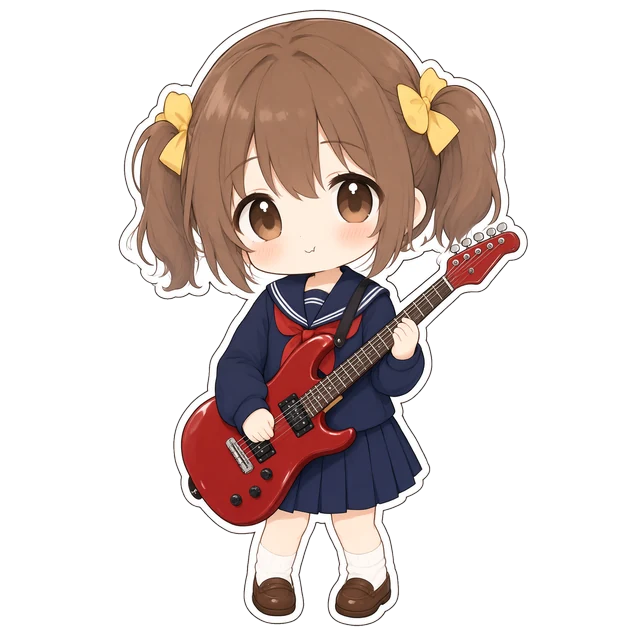
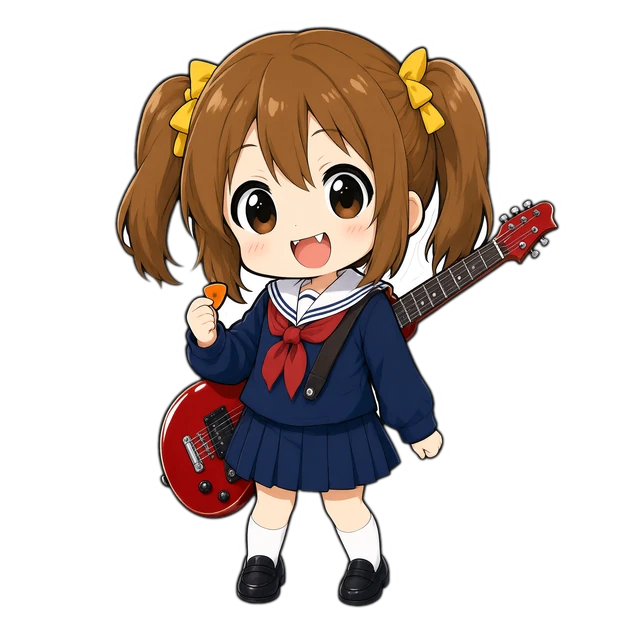
v0.7.2 看板娘迭代：①新增「显示看板娘」开关（settings.mascotEnabled，我的页外观卡内）；②鲸鱼女仆看板娘换 deep-whale 仓库现成 Q 版 companion（透明 RGBA 62KB，同源风格统一）；③平泽唯看板娘重制——AI 生成两候选按视觉评分选 Q 版厚涂贴纸风（9.8 分，茶色双马尾黄发卡红吉他张嘴傻笑），官方动画风候选留档备选；回归 6 组全过＋构建通过

diff --git a/app/src/views/ProfileView.vue b/app/src/views/ProfileView.vue
@@ -123,6 +123,20 @@ function onPickRestoreFile(e) {
           <span class="knob"></span>
         </button>
       </div>
+      <div class="switch-row" style="margin-top: 12px">
+        <div>
+          <div class="small" style="font-weight: 600">显示看板娘</div>
+          <div class="dim small">右下角常驻小角色，点她说话（仅主题配置了看板娘时）</div>
+        </div>
+        <button
+          class="switch"
+          :class="{ on: settings.mascotEnabled }"
+          :aria-label="settings.mascotEnabled ? '隐藏看板娘' : '显示看板娘'"
+          @click="settings.mascotEnabled = !settings.mascotEnabled"
+        >
+          <span class="knob"></span>
+        </button>
+      </div>
     </div>
     <div class="card">
       <div class="switch-row">

diff --git a/app/src/stores/settings.js b/app/src/stores/settings.js
@@ -9,6 +9,7 @@ export const useSettingsStore = defineStore('settings', {
     { key: 'display-mode', paths: ['displayMode'] },
     { key: 'theme', paths: ['themeId'] },
     { key: 'glass', paths: ['glass'] },
+    { key: 'mascot', paths: ['mascotEnabled'] },
   ],
   state: () => ({
     reminders: load('reminders', { enabled: false, time: '20:00' }),
@@ -22,5 +23,7 @@ export const useSettingsStore = defineStore('settings', {
     themeId: load('theme', 'classic'),
     // 透明毛玻璃（v0.7.1）：开启后卡片/顶栏半透明 + 背景模糊，背景插画更透
     glass: load('glass', false),
+    // 看板娘开关（v0.7.2）：false 时主题配置了看板娘也不显示
+    mascotEnabled: load('mascot', true),
   }),
 })

diff --git a/app/src/components/Mascot.vue b/app/src/components/Mascot.vue
@@ -8,7 +8,8 @@ import { THEMES } from '../data/themes.js'
 const settings = useSettingsStore()
 
 const theme = computed(() => THEMES.find((t) => t.id === settings.themeId))
-const visible = computed(() => Boolean(theme.value?.mascot))
+// 开关（v0.7.2）：「我的 → 外观主题 → 显示看板娘」；关掉后主题配置了看板娘也不显示
+const visible = computed(() => settings.mascotEnabled && Boolean(theme.value?.mascot))
 
 const LINES = [
   '今天也要加油练琴哦～',

diff --git a/HANDOFF.md b/HANDOFF.md
@@ -1,6 +1,6 @@
 # HANDOFF 交接文档
 
-> 给一个完全没有上下文的新对话看。工作目录：`F:\电吉他学习`（Windows 10，Git Bash）。项目名：**练琴搭子 · PickBuddy**。当前版本 **v0.7.1**。
+> 给一个完全没有上下文的新对话看。工作目录：`F:\电吉他学习`（Windows 10，Git Bash）。项目名：**练琴搭子 · PickBuddy**。当前版本 **v0.7.2**。
 
 ## 1. 我们在做什么任务
 
@@ -67,17 +67,18 @@
 - **设备建议修正（v0.6.3，用户实物反馈两个真错误）**：①**通道双脚钉**——CHANNEL（CLEAN/DRIVE）+ DRIVE MODE（RHYTHM/LEAD）两步讲全，`channelMap` 数据驱动：步骤拆两步、速览芯片显示「DRIVE → RHYTHM」/「CLEAN」、面板两个脚钉联动高亮；②**箱模名按实物 14 种更正**（65 Black/J800/DualRect/5153 系列，OD=过载推子版）+ `modelNotes` 中文对照 + 入门页 14 种对照表；模板映射：清音→65 Black Nor、轻过载→65 Black Nor OD、失真节奏→J800 Lo、金属→DualRect Red、主音→J800 Hi OD。回归：toneGuide 41→46 项（+channelMap/14 种名单/虚构名禁止校验）、面板渲染 11→12 项，均过；构建通过。
 - **设备建议补全（v0.6.4，用户反馈）**：①**琴音量旋钮（VOLUME）补全**——之前只建议了音色旋钮（TONE）；GRX40 两个旋钮现在都给建议：音量进 keyParams（速览第 2 芯片、步骤第 2 步「琴：音量旋钮拧到…」、面板图上音量旋钮红圈高亮），音色留在「可先不动」；6 套套路音量参考：清音 7~8 / 轻过载 8~9 / 失真节奏 8~9 / 金属 9~10 / 主音 8~9；②**箱模名大小写规范化**——用户输入用小写是打字方便，实物为标准大小写（65 Black Nor、J800 Lo、DualRect Red、5153 EL34/6L6、OD 大写），全部按标准写法。回归：toneGuide 46 项（基准重写含音量）、面板渲染 12→13 项（+音量旋钮高亮断言），全过；构建通过。**用户确认本轮结束，等验收。**
 - **外观主题系统（v0.7.0，用户要求"外观有更多样式"：参考 DSH 社区鲸鱼娘主题，指定平泽唯「呆唯风」）**：①`data/themes.js` 主题清单（id/名称/desc/色板 swatch/背景图/看板娘），settings 加 `themeId`（persist key `theme`），App.vue watch 写 `html[data-theme]`；②style.css 增加语义变量（--accent-soft/--accent-soft-2/--ok-soft/--ok-card/--warn-soft/--warn-border/--warn-text/--bar/--heat-1/--heat-2），20+ 视图硬编码色全部收敛，ChordChart/FretboardMap 红点改 CSS class；③首套主题「呆唯 · 轻音海洋」（`[data-theme='yui']`）：奶油暖粉+珊瑚粉+圆角 10px，body 背景图 `--bg-image`（遮罩 `body::before`，浓度变量 `--bg-veil` 默认 0.86），看板娘 `Mascot.vue` 右下角常驻（点她说话）；④「我的」页「外观主题」卡（THEMES 驱动，色板圆点+即时切换）；⑤素材在 `app/public/theme/`（**素材为网上收集的平泽唯形象图 + AI 生成 Q 版角色，个人学习用途、不公开传播；若未来公开分发需换授权素材**）；⑥顺手修 ProfileView「5 套→6 套」、DevicesView「od→OD」。回归 6 组全过 + 构建通过。
-- **主题迭代（v0.7.1，用户反馈三连）**：①**看板娘更萌**——yui 主题看板娘换成 **AI 生成 Q 版 chibi 平泽唯**（`spike/cutout.py` 抠白底→透明+羽化，WebP 压缩 49KB）；②**透明毛玻璃模式**——settings 加 `glass`（persist key `glass`），App.vue 切 `html.glass` class，style.css 里 `html.glass` 覆盖 --bg-card/--bg-input/--border + `.card/.topbar/.subhead/.tabbar/input/select/textarea/.msg-bubble` backdrop blur(14px)，body::before opacity 0.66；「我的 → 外观主题」卡内开关；**html.glass 选择器优先级（0,1,1）高于 [data-theme]（0,1,0），放 CSS 后面即覆盖**；③**第三主题「鲸鱼女仆 · 深海茶会」（`[data-theme='maid']`）**——DSH 社区 dsh-maid-whale-webUI 设计语言：柔雾蓝 #4a86e8、水彩鲸鱼云团背景（素材取自该仓库 BSD-3-Clause）、圆角 12px、AI 生成 Q 版蓝发女仆抱小鲸鱼看板娘（WebP 83KB）；--bg-veil 0.9。回归 6 组全过 + 构建通过。**等用户验收。**
+- **主题迭代（v0.7.1，用户反馈三连）**：①**看板娘更萌**——yui 主题看板娘换成 **AI 生成 Q 版 chibi 平泽唯**（`spike/cutout.py` 抠白底→透明+羽化，WebP 压缩 49KB）；②**透明毛玻璃模式**——settings 加 `glass`（persist key `glass`），App.vue 切 `html.glass` class，style.css 里 `html.glass` 覆盖 --bg-card/--bg-input/--border + `.card/.topbar/.subhead/.tabbar/input/select/textarea/.msg-bubble` backdrop blur(14px)，body::before opacity 0.66；「我的 → 外观主题」卡内开关；**html.glass 选择器优先级（0,1,1）高于 [data-theme]（0,1,0），放 CSS 后面即覆盖**；③**第三主题「鲸鱼女仆 · 深海茶会」（`[data-theme='maid']`）**——DSH 社区 dsh-maid-whale-webUI 设计语言：柔雾蓝 #4a86e8、水彩鲸鱼云团背景（素材取自该仓库 BSD-3-Clause）、圆角 12px、AI 生成 Q 版蓝发女仆抱小鲸鱼看板娘（WebP 83KB）；--bg-veil 0.9。回归 6 组全过 + 构建通过。
+- **看板娘迭代（v0.7.2，用户反馈：加启用开关 / 鲸鱼女仆用现成 / 唯的风格不行）**：①settings 加 `mascotEnabled`（persist key `mascot`，默认开）+「我的 → 外观主题」加「显示看板娘」开关，Mascot.vue 的 visible 判断；②**maid 看板娘换现成**——deep-whale-day-night-theme 仓库自带 Q 版透明 companion（day-companion-v1.webp 420×434 RGBA 62KB），与 maid 主题同源风格统一；③**yui 看板娘重制**——AI 生成 2 候选（官方动画风/Q 版厚涂贴纸风），视觉模型评分选 Q 版厚涂（9.8 分：茶色双马尾+黄发卡+深蓝水手服红领巾+红吉他+拨片、张嘴傻笑露虎牙），抠图转 WebP 59KB；官方动画风候选留 `gui-test-screenshots/review-20260819/yui-candidates/` 备选（用户不满意可换）。回归 6 组全过 + 构建通过。**等用户验收。**
 - 全程约 52 个提交，git 历史即详细变更记录；需求文档修订记录完整到 v0.6.4；README/验收指南/交接文档全同步。
 
 ## 4. 当前卡在哪
 
-**v0.7.1（主题迭代：Q 版看板娘 + 毛玻璃 + 鲸鱼女仆主题）已推送，等用户验收**。验收重点：
+**v0.7.2（看板娘迭代：启用开关 + 现成鲸鱼娘 + 重制 Q 版唯）已推送，等用户验收**。验收重点：
 
-1. **「我的 → 外观主题」**：现在有 **3 套主题**（经典瑞士军刀 / 呆唯·轻音海洋 / 鲸鱼女仆·深海茶会），点一下即时切换；下方新增**「透明毛玻璃」开关**——开启后卡片/面板半透明 + 模糊，背景插画更透（三套主题通用）。
-2. **看板娘**：呆唯主题是 **Q 版 chibi 平泽唯**（茶色双马尾+黄发卡+红吉他）；鲸鱼女仆主题是 **Q 版蓝发女仆抱小鲸鱼**。点她们说话。
+1. **「我的 → 外观主题」**：3 套主题 + 「透明毛玻璃」+ 新增「**显示看板娘**」开关（关闭后看板娘消失）。
+2. **看板娘**：呆唯主题 = 新 Q 版厚涂唯（茶色双马尾+黄发卡+红吉他，张嘴傻笑）；鲸鱼女仆主题 = deep-whale 仓库现成 Q 版人鱼女仆（蓝发女仆装+鱼尾+持书）。若唯的形象还不满意，备选官方动画风候选在 `gui-test-screenshots/review-20260819/yui-candidates/yui-candidate-2.png`，说一声就换。
 3. **手机端**：背景插画被遮罩压暗不影响阅读；看板娘悬浮在底部导航上方不遮挡。
-4. **数据无损**：主题/毛玻璃选择存 localStorage，其余数据不受影响；切换后刷新两三次避开 SW 旧缓存。
+4. **数据无损**：主题/毛玻璃/看板娘开关都存 localStorage，其余数据不受影响；切换后刷新两三次避开 SW 旧缓存。
 5. **v0.4.2/v0.6.x 遗留的待用户反馈**（功能层面，与本次无关）：
 1. **曲谱准确性（重点）**：19 首曲谱中多数标注了来源与置信度；单源/自动检测的（影色舞等）标注「请对照原曲校准」。用户弹到不对的，按他听出来的改数据（人工纠错永远优先）。
 2. **新歌 BPM/调性待校准**：22 首新歌的 BPM/调性多为引擎分析值（`dataFrom` 标「待人工校准」）；用户弹到速度不对的报过来改。已知悬案：天使にふれたよ!（社区谱 100~117 疑似半速）、青春コンプレックス（社区谱 155 vs 分析 185）、ソラノムジカ（分析 129 vs 半速记谱 98）。

diff --git a/需求文档.md b/需求文档.md
@@ -9,6 +9,7 @@
 
 | 版本 | 日期 | 变更 |
 |---|---|---|
+| v0.7.2 | 2026-08-19 | **看板娘迭代（用户反馈：①要加看板娘启用开关；②鲸鱼女仆用现成素材；③唯的看板娘风格不行要优化）**：①**看板娘开关**——settings 新增 `mascotEnabled`（persist key `mascot`，默认开），「我的 → 外观主题」新增「显示看板娘」开关，关闭后主题配置了看板娘也不显示；②**鲸鱼女仆看板娘换现成素材**——弃用 AI 生成图，改用 DSH 社区 deep-whale-day-night-theme 仓库自带的 Q 版透明背景 companion（`assets/deep-whale-day-companion-v1.webp`，420×434 RGBA，62KB，蓝发女仆装人鱼尾持书 Q 版），与主题同源风格统一；③**平泽唯看板娘重制**——AI 生成两个风格候选（官方动画画风 9.5 分 / Q 版厚涂贴纸风 9.8 分，视觉模型评分），选用 Q 版厚涂版（茶色双马尾+黄色发卡+深蓝水手服红领巾+红吉他+拨片，张嘴傻笑露虎牙，还原度 95%+），抠白底+羽化转 WebP 59KB；官方动画风候选保留在 `gui-test-screenshots/review-20260819/yui-candidates/` 备选。回归：6 组全过（冒烟 20/20、规则 25/25、数据 767/767、toneGuide 46/46、面板 13/13、合成 3/3）、构建通过。**待验收**：新看板娘形象 + 开关。 |
 | v0.7.1 | 2026-08-19 | **主题迭代（用户反馈三连）**：①**看板娘更萌**——呆唯主题看板娘由人偶实拍图换成 **AI 生成的 Q 版 chibi 平泽唯**（茶色双马尾+黄色蝴蝶结发卡+深蓝水手服+红色吉他，透明背景贴纸风，抠图脚本 `spike/cutout.py` 白底 flood-fill 去除+羽化，WebP 压缩 325KB→49KB）；②**透明毛玻璃模式**——「我的 → 外观主题」新增开关：开启后卡片/输入框/顶栏/底栏半透明 + backdrop blur(14px)，背景插画更透出来（`html.glass` 覆盖主题变量，优先级高于 `[data-theme]`，classic/yui/maid 三套主题通用）；③**新增第三主题「鲸鱼女仆 · 深海茶会」**——参考 DSH 社区 dsh-maid-whale-webUI 的设计语言（柔雾蓝 #4a86e8 强调、水彩鲸鱼云团背景、大圆角 12px、Q 版蓝发女仆抱小鲸鱼看板娘），背景/装饰素材直接取自该开源仓库（BSD-3-Clause，个人使用），AI 生图 Q 版鲸鱼女仆看板娘（WebP 83KB）；④细节：body 遮罩浓度改变量 `--bg-veil`（maid 主题 0.9 保可读性）。回归：冒烟 20/20、规则 25/25、数据 767/767、toneGuide 46/46、面板 13/13、合成 3/3、构建通过。**待验收**：三主题切换 + 毛玻璃开关 + 新看板娘。 |
 | v0.7.0 | 2026-08-19 | **外观主题系统（用户要求：外观有更多样式，参考 DeepSeek Harness 社区「鲸鱼娘」类萌系主题，指定以轻音少女平泽唯为形象的「呆唯风」；素材网上收集、个人学习用途不公开传播）**：①**主题架构**——新增 `data/themes.js` 主题清单（id/名称/说明/色板预览/素材），settings 新增 `themeId`（persist 自动落盘），App.vue watch 写入 `html[data-theme]`，CSS 变量换肤；全站 20+ 视图硬编码色收敛为语义变量（--accent-soft/--ok-soft/--warn-soft/--warn-border/--warn-text/--bar/--heat-1/--heat-2），ChordChart/FretboardMap 红色点改 CSS class 跟随主题；**新增主题只加数据 + style.css 变量块，功能代码零改动**；②**首套新主题「呆唯 · 轻音海洋」**——奶油暖粉底（#fff5ec）+ 珊瑚粉强调（#f08a94）+ 圆角 10px；桌面背景为平泽唯弹吉他插画（body 背景图 + 86% 底色遮罩保证可读性，手机同享）；右下角常驻**看板娘**（新组件 `Mascot.vue`，点她随机说鼓励语，仅配置了 mascot 素材的主题显示）；③「我的」页新增**「外观主题」卡**（色板圆点预览 + 点击即时切换 + 选中高亮，桌面 2 列）；④素材：`app/public/theme/`（yui-bg-desktop.jpg 背景 263KB、yui-mascot.png 看板娘），SW precache 自动纳入；⑤顺手修复：ProfileView「5 套→6 套」文案漏同步、DevicesView 箱模名小写（od→OD）。回归：冒烟 20/20、规则 25/25、数据 767/767、toneGuide 46/46、面板 13/13、合成 3/3、构建通过。**待验收**：「我的 → 外观主题」切换；换肤后刷新两三次避开 SW 缓存。 |
 | v0.6.4 | 2026-08-18 | **设备建议补全（用户反馈：琴两个旋钮只建议了音色）**：①**吉他音量旋钮（VOLUME）补全**——GRX40 两个旋钮（VOLUME/TONE）现在都给建议：音量旋钮进入 keyParams（参数速览第 2 芯片、操作步骤第 2 步「琴：音量旋钮拧到…」、面板示意图音量旋钮红圈高亮），音色旋钮保留在「可先不动」；6 套套路音量参考值：清音 7~8、轻过载 8~9、失真节奏 8~9、金属 9~10、主音 8~9；②**箱体模拟名大小写规范化**——用户此前输入小写仅为打字方便，实物为标准写法，全部统一为 65 Black Nor/OD、J800 Lo/Hi、DualRect Red、5153 EL34/6L6（OD 大写）。回归：toneGuide 46 项（基准重写含音量旋钮）、面板渲染 12→13 项（+音量旋钮高亮断言），全过；构建通过。**用户确认本轮交付结束。** |
